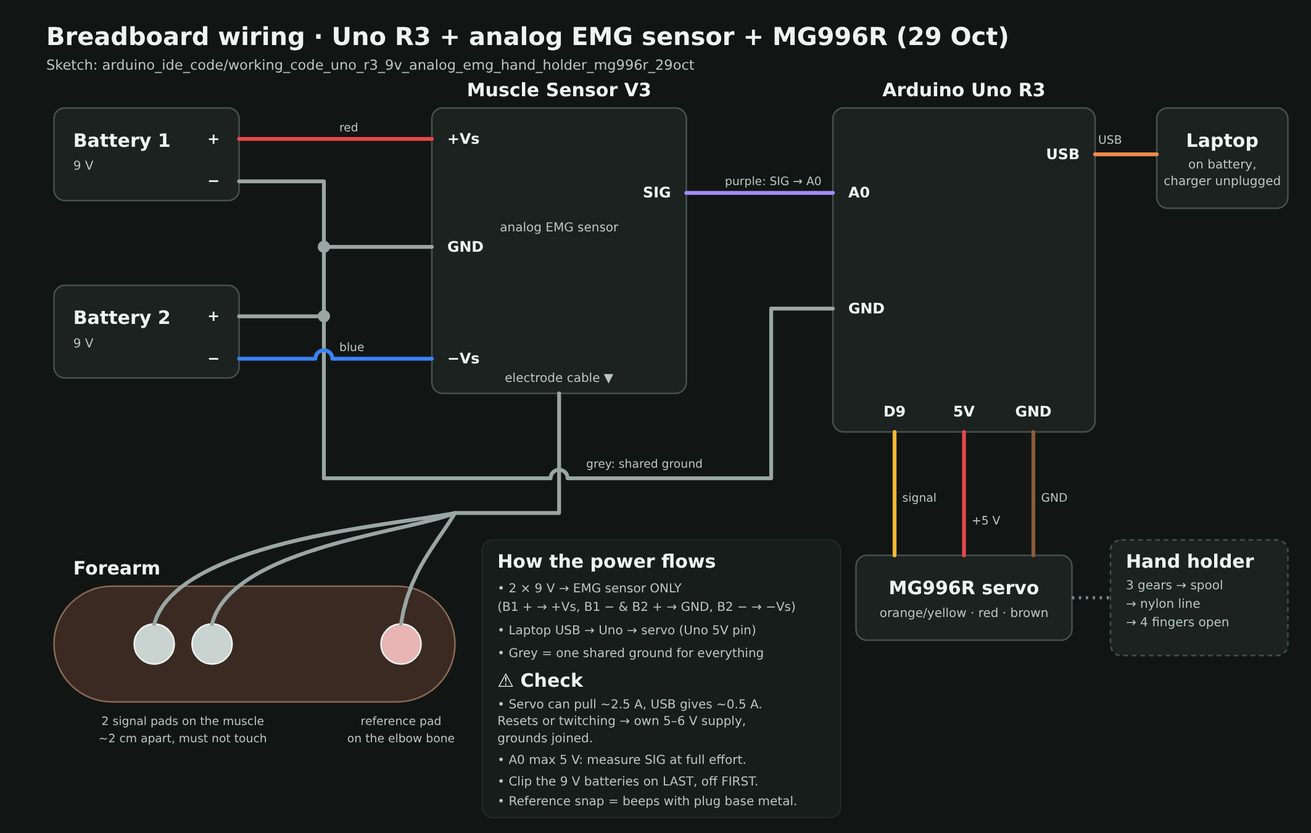
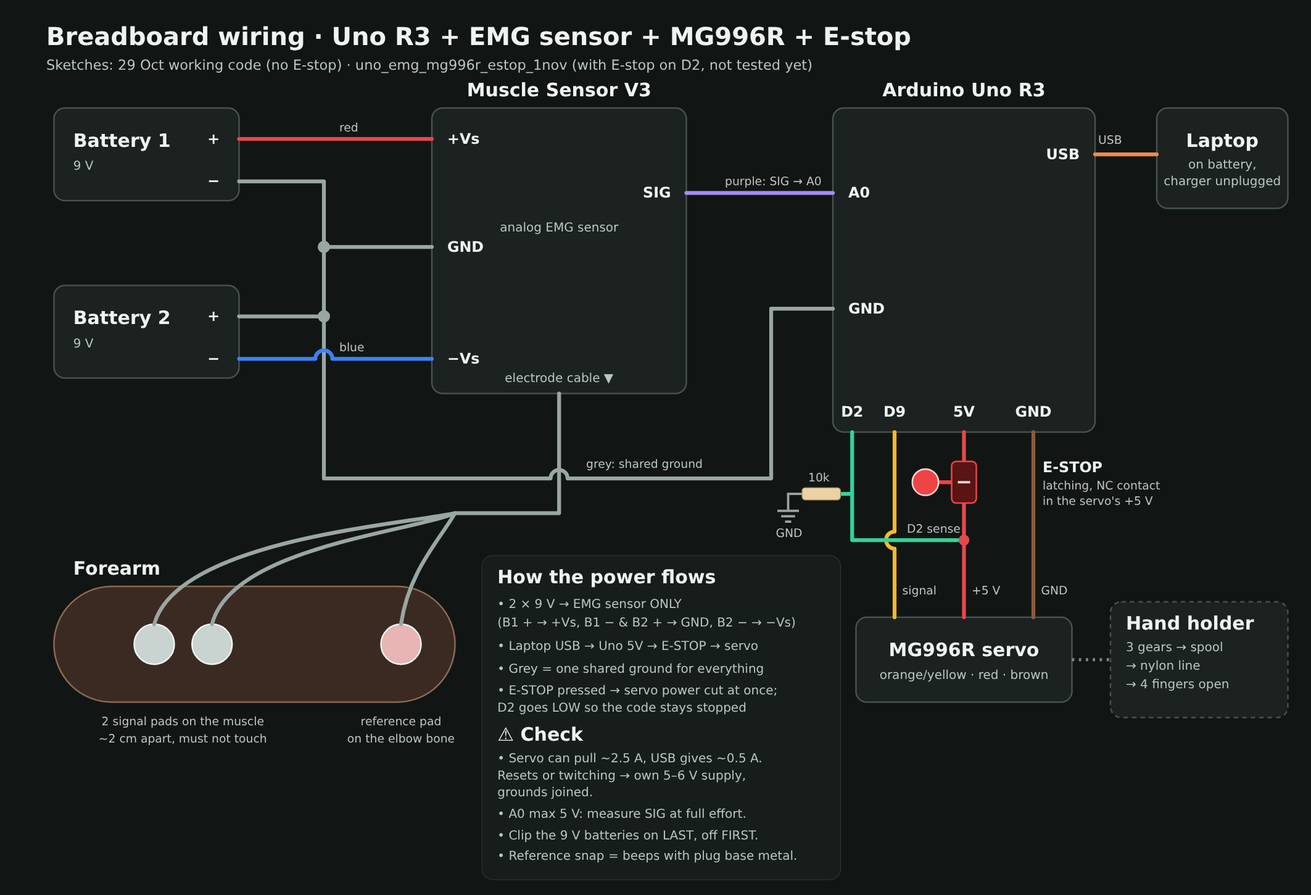
Emergency stop design, README plan, design + wiring updates
- wiring: E-stop (latching NC button in the servo +5 V, D2 sense, 10k to
  GND) added to both pictures; parts list in wiring/README.md
- arduino_ide_code/uno_emg_mg996r_estop_1nov: 29 Oct code + E-stop and a
  SAFETY angle box (syntax-checked only, not tested on hardware)
- design/README: 29 Oct back-of-palm holder parts
- README: planned next (ESP32 wireless link, EMG min/max, build E-stop,
  website as serial plotter); misc/CLAUDE.md and progress log updated

Claude-Session: https://claude.ai/code/session_01DzdJ2GVwHnWSbc4bwTXLm9

diff --git a/wiring/source/breadboard_wiring.html b/wiring/source/breadboard_wiring.html
@@ -2,7 +2,7 @@
 <html><head><meta charset="utf-8"><title>Breadboard Wiring</title>
 <!-- Source of wiring/breadboard_wiring.png. Edit here, then re-make the PNG. -->
 <style>body{margin:0;background:#111614}</style></head><body>
-<svg xmlns="http://www.w3.org/2000/svg" width="1700" height="1080" viewBox="0 0 1700 1080" font-family="DejaVu Sans, Arial, sans-serif">
+<svg xmlns="http://www.w3.org/2000/svg" width="1700" height="1160" viewBox="0 0 1700 1160" font-family="DejaVu Sans, Arial, sans-serif">
   <defs>
     <style>
       .box{fill:#1b2220;stroke:#46524f;stroke-width:2}
@@ -13,9 +13,9 @@
       .lbl{fill:#b9c6c2;font-size:15px}
     </style>
   </defs>
-  <rect width="1700" height="1080" fill="#111614"/>
-  <text x="60" y="58" font-size="32" font-weight="700" fill="#eef4f2">Breadboard wiring · Uno R3 + analog EMG sensor + MG996R (29 Oct)</text>
-  <text x="60" y="90" font-size="18" fill="#b9c6c2">Sketch: arduino_ide_code/working_code_uno_r3_9v_analog_emg_hand_holder_mg996r_29oct</text>
+  <rect width="1700" height="1160" fill="#111614"/>
+  <text x="60" y="58" font-size="32" font-weight="700" fill="#eef4f2">Breadboard wiring · Uno R3 + EMG sensor + MG996R + E-stop</text>
+  <text x="60" y="90" font-size="18" fill="#b9c6c2">Sketches: 29 Oct working code (no E-stop) · uno_emg_mg996r_estop_1nov (with E-stop on D2, not tested yet)</text>
 
   <!-- ===== batteries ===== -->
   <rect x="70" y="140" width="240" height="120" rx="14" class="box" stroke="#f08a4b"/>
@@ -41,6 +41,7 @@
   <text x="1250" y="125" class="t" text-anchor="middle">Arduino Uno R3</text>
   <text x="1100" y="256" class="pin">A0</text>
   <text x="1100" y="406" class="pin">GND</text>
+  <text x="1105" y="540" class="pin" text-anchor="middle">D2</text>
   <text x="1160" y="540" class="pin" text-anchor="middle">D9</text>
   <text x="1250" y="540" class="pin" text-anchor="middle">5V</text>
   <text x="1340" y="540" class="pin" text-anchor="middle">GND</text>
@@ -53,17 +54,17 @@
   <text x="1585" y="240" class="s" text-anchor="middle">charger unplugged</text>
 
   <!-- ===== servo ===== -->
-  <rect x="1110" y="720" width="280" height="110" rx="14" class="box" stroke="#7d8a90"/>
-  <text x="1250" y="770" class="t" text-anchor="middle">MG996R servo</text>
-  <text x="1250" y="800" class="s" text-anchor="middle">orange/yellow · red · brown</text>
+  <rect x="1110" y="800" width="280" height="110" rx="14" class="box" stroke="#7d8a90"/>
+  <text x="1250" y="850" class="t" text-anchor="middle">MG996R servo</text>
+  <text x="1250" y="880" class="s" text-anchor="middle">orange/yellow · red · brown</text>
 
   <!-- ===== hand holder ===== -->
-  <rect x="1440" y="700" width="230" height="150" rx="14" class="box" stroke="#7d8a90" stroke-dasharray="6 5"/>
-  <text x="1460" y="736" class="t" font-size="20">Hand holder</text>
-  <text x="1460" y="764" class="s">3 gears → spool</text>
-  <text x="1460" y="788" class="s">→ nylon line</text>
-  <text x="1460" y="812" class="s">→ 4 fingers open</text>
-  <path d="M1390 775 H1440" stroke="#7d8a90" stroke-width="4" stroke-dasharray="3 6"/>
+  <rect x="1440" y="780" width="230" height="150" rx="14" class="box" stroke="#7d8a90" stroke-dasharray="6 5"/>
+  <text x="1460" y="816" class="t" font-size="20">Hand holder</text>
+  <text x="1460" y="844" class="s">3 gears → spool</text>
+  <text x="1460" y="868" class="s">→ nylon line</text>
+  <text x="1460" y="892" class="s">→ 4 fingers open</text>
+  <path d="M1390 855 H1440" stroke="#7d8a90" stroke-width="4" stroke-dasharray="3 6"/>
 
   <!-- ===== forearm + electrodes ===== -->
   <rect x="70" y="760" width="520" height="150" rx="75" fill="#3a2a22" stroke="#8a6a55" stroke-width="2"/>
@@ -92,9 +93,27 @@
   <!-- SIG to A0 (purple) -->
   <path d="M890 250 H1080" class="w" stroke="#a78bfa"/>
   <!-- servo wires -->
-  <path d="M1160 560 V720" class="w" stroke="#f5b82e"/>
-  <path d="M1250 560 V720" class="w" stroke="#e5484d"/>
-  <path d="M1340 560 V720" class="w" stroke="#8b5a3c"/>
+  <path d="M1160 560 V689 A11 11 0 0 0 1160 711 V800" class="w" stroke="#f5b82e"/>
+  <path d="M1250 560 V598 M1250 652 V800" class="w" stroke="#e5484d"/>
+  <path d="M1340 560 V800" class="w" stroke="#8b5a3c"/>
+  <!-- EMERGENCY STOP: latching button with a normally-closed (NC) contact, in the servo's +5 V wire -->
+  <rect x="1234" y="598" width="32" height="54" rx="6" fill="#5a1414" stroke="#ef4444" stroke-width="2"/>
+  <path d="M1242 625 H1258" stroke="#ffd6d6" stroke-width="3"/>
+  <path d="M1216 625 H1234" stroke="#ef4444" stroke-width="5"/>
+  <circle cx="1200" cy="625" r="17" fill="#ef4444" stroke="#ffd6d6" stroke-width="2"/>
+  <text x="1352" y="612" class="pin" fill="#ff8a8a">E-STOP</text>
+  <text x="1352" y="634" class="lbl">latching, NC contact</text>
+  <text x="1352" y="654" class="lbl">in the servo's +5 V</text>
+  <!-- D2 senses whether the servo has power: HIGH = running, LOW = E-stop pressed -->
+  <path d="M1250 700 H1105 V560" class="w" stroke="#34d399"/>
+  <circle cx="1250" cy="700" r="7" fill="#e5484d"/>
+  <text x="1176" y="690" class="lbl" fill="#8ff0c4">D2 sense</text>
+  <!-- 10k pull-down from D2 to ground -->
+  <path d="M1105 640 H1090" class="w" stroke="#34d399"/>
+  <rect x="1040" y="632" width="50" height="16" rx="4" fill="#e9d3a6" stroke="#9c7a3c"/>
+  <text x="1048" y="624" class="lbl" fill="#e9d3a6">10k</text>
+  <path d="M1040 640 H1022 V662 M1008 662 H1036 M1013 669 H1031 M1018 676 H1026" stroke="#9aa6a3" stroke-width="3" fill="none"/>
+  <text x="1006" y="696" class="lbl">GND</text>
   <!-- USB (orange power + data) -->
   <path d="M1420 200 H1500" class="w" stroke="#f08a4b" stroke-width="7"/>
 
@@ -103,24 +122,26 @@
   <text x="440" y="455" class="lbl">blue</text>
   <text x="940" y="240" class="lbl">purple: SIG → A0</text>
   <text x="760" y="606" class="lbl">grey: shared ground</text>
-  <text x="1170" y="650" class="lbl">signal</text>
-  <text x="1260" y="680" class="lbl">+5 V</text>
-  <text x="1350" y="650" class="lbl">GND</text>
+  <text x="1170" y="770" class="lbl">signal</text>
+  <text x="1260" y="770" class="lbl">+5 V</text>
+  <text x="1350" y="770" class="lbl">GND</text>
   <text x="1424" y="186" class="lbl">USB</text>
 
   <!-- ===== notes ===== -->
-  <rect x="625" y="700" width="465" height="360" rx="14" fill="#171d1b" stroke="#2c3734"/>
-  <text x="645" y="736" class="t" font-size="20">How the power flows</text>
-  <text x="645" y="768" class="s" fill="#f2b38d">• 2 × 9 V → EMG sensor ONLY</text>
-  <text x="645" y="792" class="s">   (B1 + → +Vs, B1 − &amp; B2 + → GND, B2 − → −Vs)</text>
-  <text x="645" y="822" class="s" fill="#f2b38d">• Laptop USB → Uno → servo (Uno 5V pin)</text>
-  <text x="645" y="852" class="s">• Grey = one shared ground for everything</text>
-  <text x="645" y="890" class="t" font-size="18" fill="#ff8a8a">⚠ Check</text>
-  <text x="645" y="918" class="s" fill="#f1d0d0">• Servo can pull ~2.5 A, USB gives ~0.5 A.</text>
-  <text x="645" y="940" class="s" fill="#f1d0d0">  Resets or twitching → own 5–6 V supply,</text>
-  <text x="645" y="962" class="s" fill="#f1d0d0">  grounds joined.</text>
-  <text x="645" y="990" class="s" fill="#f1d0d0">• A0 max 5 V: measure SIG at full effort.</text>
-  <text x="645" y="1018" class="s" fill="#f1d0d0">• Clip the 9 V batteries on LAST, off FIRST.</text>
-  <text x="645" y="1044" class="s" fill="#f1d0d0">• Reference snap = beeps with plug base metal.</text>
+  <rect x="625" y="720" width="465" height="420" rx="14" fill="#171d1b" stroke="#2c3734"/>
+  <text x="645" y="756" class="t" font-size="20">How the power flows</text>
+  <text x="645" y="788" class="s" fill="#f2b38d">• 2 × 9 V → EMG sensor ONLY</text>
+  <text x="645" y="812" class="s">   (B1 + → +Vs, B1 − &amp; B2 + → GND, B2 − → −Vs)</text>
+  <text x="645" y="842" class="s" fill="#f2b38d">• Laptop USB → Uno 5V → E-STOP → servo</text>
+  <text x="645" y="872" class="s">• Grey = one shared ground for everything</text>
+  <text x="645" y="900" class="s" fill="#ff8a8a">• E-STOP pressed → servo power cut at once;</text>
+  <text x="645" y="922" class="s" fill="#ff8a8a">  D2 goes LOW so the code stays stopped</text>
+  <text x="645" y="960" class="t" font-size="18" fill="#ff8a8a">⚠ Check</text>
+  <text x="645" y="988" class="s" fill="#f1d0d0">• Servo can pull ~2.5 A, USB gives ~0.5 A.</text>
+  <text x="645" y="1010" class="s" fill="#f1d0d0">  Resets or twitching → own 5–6 V supply,</text>
+  <text x="645" y="1032" class="s" fill="#f1d0d0">  grounds joined.</text>
+  <text x="645" y="1060" class="s" fill="#f1d0d0">• A0 max 5 V: measure SIG at full effort.</text>
+  <text x="645" y="1088" class="s" fill="#f1d0d0">• Clip the 9 V batteries on LAST, off FIRST.</text>
+  <text x="645" y="1114" class="s" fill="#f1d0d0">• Reference snap = beeps with plug base metal.</text>
 </svg>
 </body></html>

diff --git a/wiring/source/system_overview.html b/wiring/source/system_overview.html
@@ -33,7 +33,7 @@
   <rect x="820" y="830" width="740" height="430" rx="20" class="panel"/>
 
   <!-- title -->
-  <text x="60" y="58" font-size="32" font-weight="700" fill="#eef4f2">How the hand exoskeleton works (29 Oct setup)</text>
+  <text x="60" y="58" font-size="32" font-weight="700" fill="#eef4f2">How the hand exoskeleton works (29 Oct setup + emergency stop)</text>
   <text x="60" y="90" font-size="18" fill="#b9c6c2">Forearm muscle → EMG sensor → Arduino Uno → MG996R → gears + spool → fishing line → 4 fingers open</text>
 
   <!-- ================= 1 · SENSE ================= -->
@@ -86,10 +86,10 @@
   <rect x="110" y="526" width="600" height="98" rx="14" class="logic"/>
   <text x="130" y="562" class="t">Threshold logic (toggle)</text>
   <text x="130" y="588" class="s">hit ≥ 400 → open (or close, if open ≥ 1 s)</text>
-  <text x="130" y="610" class="s">relax below 250 before the next hit counts</text>
+  <text x="130" y="610" class="s">relax below 250 before the next hit counts · E-stop (D2) = stop</text>
 
   <path d="M410 640 V684" class="sig" marker-end="url(#aG)"/>
-  <text x="422" y="668" class="lbl">D9 · servo signal</text>
+  <text x="422" y="668" class="lbl">D9 signal</text>
 
   <!-- move chain -->
   <rect x="70" y="690" width="420" height="88" rx="14" class="mech"/>
@@ -124,16 +124,24 @@
   <text x="538" y="1138" class="s">   resting tone)</text>
   <path d="M520 1110 H498" class="sig" marker-end="url(#aG)"/>
 
-  <!-- laptop power into Uno + servo -->
-  <rect x="520" y="690" width="230" height="200" rx="14" class="power"/>
-  <text x="538" y="724" class="t">Laptop USB</text>
-  <text x="538" y="750" class="s">5 V, on battery</text>
-  <text x="538" y="772" class="s">(charger unplugged)</text>
-  <text x="538" y="806" class="s">powers the Uno,</text>
-  <text x="538" y="828" class="s">and the servo via</text>
-  <text x="538" y="850" class="s">the Uno’s 5V pin</text>
-  <path d="M635 690 V648" class="pw" marker-end="url(#aO)"/>
-  <path d="M520 734 H498" class="pw" marker-end="url(#aO)"/>
+  <!-- emergency stop: in the servo's power wire, and read by the Uno on D2 -->
+  <rect x="520" y="682" width="200" height="112" rx="14" fill="#5a1414" stroke="#ef4444" stroke-width="3"/>
+  <circle cx="548" cy="712" r="13" fill="#ef4444"/>
+  <text x="570" y="719" class="t" font-size="19" fill="#ffd6d6">E-STOP</text>
+  <text x="536" y="746" class="s" fill="#f6caca">red latching button</text>
+  <text x="536" y="768" class="s" fill="#f6caca">cuts servo power</text>
+  <text x="536" y="788" class="s" fill="#f6caca" font-size="14">+ tells the Uno (D2)</text>
+  <path d="M520 738 H498" class="pw" marker-end="url(#aO)"/>
+  <path d="M560 682 V648" class="sig" marker-end="url(#aG)"/>
+  <text x="576" y="672" class="lbl">D2</text>
+
+  <!-- laptop power into the Uno, and through the E-stop to the servo -->
+  <rect x="520" y="824" width="230" height="92" rx="14" class="power"/>
+  <text x="538" y="854" class="t" font-size="19">Laptop USB 5 V</text>
+  <text x="538" y="880" class="s">on battery, charger off</text>
+  <text x="538" y="902" class="s" font-size="14">→ Uno → E-stop → servo</text>
+  <path d="M620 824 V800" class="pw" marker-end="url(#aO)"/>
+  <path d="M740 824 V648" class="pw" marker-end="url(#aO)"/>
 
   </g>
 
@@ -168,7 +176,7 @@
   <rect x="1200" y="842" width="330" height="120" rx="14" class="power"/>
   <text x="1218" y="876" class="t" font-size="19">B · Laptop USB 5 V</text>
   <text x="1218" y="904" class="s">→ Arduino Uno</text>
-  <text x="1218" y="928" class="s">→ MG996R (via Uno 5V pin)</text>
+  <text x="1218" y="928" class="s">→ E-stop → MG996R</text>
 
   <text x="850" y="1000" class="s" fill="#d6dfdc">Grounds are joined (EMG GND ↔ Uno GND) so the Uno can read SIG.</text>
 

diff --git a/README.md b/README.md
@@ -9,40 +9,42 @@ When the patient **tries** to open the hand, a sensor on the forearm picks up th
 1. The patient tenses the **forearm muscles** (flexor / extensor).
 2. **Electrodes** on the skin pass the signal to an **analog EMG sensor**, powered by **two 9 V batteries**.
 3. An **Arduino Uno R3** reads the signal, smooths it, and checks it against a threshold.
-4. On a "hit", the Uno turns the **MG996R servo**, which is screwed into the **hand holder**.
-5. Through a **3-gear train** (small → middle → big gear), the big gear's **spool** winds in a **nylon fishing line**.
+4. On a "hit", the Uno turns the **MG996R servo**, which is screwed into the **back-of-palm holder**.
+5. Through a **3-gear train** (servo gear → idler gear → big gear), the big gear's **spool** winds in a **nylon fishing line**.
 6. The line goes taut and pulls the **index, middle, ring and little finger** straight, all at once. No thumb for now.
 7. On the next hit the servo returns, the spool unwinds, the line goes slack, and the fingers curl back into a fist by themselves.
+8. **Emergency stop** (designed 1 Nov, not built yet): a red button cuts the servo's power at once, so the patient can take the device off safely.
 
 ![system overview](wiring/system_overview.png)
 
-**Power:** the 2 × 9 V batteries power **only** the EMG sensor. The **laptop** (USB) powers the Uno, and the Uno powers the servo.
+**Power:** the 2 × 9 V batteries power **only** the EMG sensor. The **laptop** (USB) powers the Uno, and the Uno powers the servo through the E-stop.
 
 ## Folders
 | Folder | What is in it |
 |---|---|
-| [`wiring/`](wiring/) | system overview + breadboard wiring pictures (and their editable source) |
-| [`arduino_ide_code/`](arduino_ide_code/) | the Arduino sketches. **Working code: 29 Oct, Uno + EMG + MG996R** |
+| [`wiring/`](wiring/) | system overview + breadboard wiring pictures, parts list, emergency stop |
+| [`arduino_ide_code/`](arduino_ide_code/) | Arduino sketches: **29 Oct working code**, and the 1 Nov version with the E-stop |
 | [`biomechanics_calculation/`](biomechanics_calculation/) | the finger force / spool / torque calculation (PDF) |
-| [`design/`](design/) | the prototype photo, `3d_printed/` STL files, interactive design pages |
-| [`website/`](website/) | the live 3D hand tracker website (demo mode for now) |
-| [`firmware/`](firmware/) | earlier ESP32 / Nano / XIAO sketches (flex sensor, EMG tests, motor tests) |
-| [`hardware/`](hardware/) | earlier printed parts, grouped by date |
-| [`docs/`](docs/) | [`SAFETY.md`](docs/SAFETY.md) (read before testing on anyone), previews, and `old/` |
-| [`misc/`](misc/) | the work log ([`PROGRESS_FARID.md`](misc/PROGRESS_FARID.md)) |
-| `CLAUDE.md` | instructions that Claude Code reads automatically. It has to stay in this top folder. |
+| [`design/`](design/) | prototype photo, **29 Oct back-of-palm holder (.3mf print file)**, `3d_printed/` finger casings |
+| [`website/`](website/) | live 3D hand + **Serial plotter** (watch the EMG live in Chrome, like the Arduino IDE) |
+| [`misc/`](misc/) | work log, safety checklist (`misc/docs/SAFETY.md`), earlier firmware / hardware / docs, the full `CLAUDE.md` |
 
 ## ⚠ Before testing on a person
-- Read [`docs/SAFETY.md`](docs/SAFETY.md).
+- Read [`misc/docs/SAFETY.md`](misc/docs/SAFETY.md).
 - Laptop **charger unplugged** during EMG tests.
-- First run the servo **without a hand** in the holder, and have someone ready to pull the USB cable.
-- The servo currently runs on USB power through the Uno. If the Uno resets or the servo twitches, give the servo its own 5–6 V supply (grounds joined). Details in [`arduino_ide_code/README.md`](arduino_ide_code/README.md).
+- First run the servo **without a hand** in the holder, and have someone ready to pull the USB cable (until the E-stop is built).
+- The servo currently runs on USB power through the Uno. If the Uno resets or the servo twitches, give it its own 5–6 V supply (grounds joined). Details in [`arduino_ide_code/README.md`](arduino_ide_code/README.md).
 
-## Planned next
-- **ESP32-S3** reading the EMG signal and sending it by **Bluetooth** to the [website](website/), for live EMG and recording.
-- A sensor that tells the motor when the finger is straight, so it stops by itself.
+## Planned next (to discuss with the team)
+1. **ESP32-S3 as the wireless link.** Use it only for its **Bluetooth / Wi-Fi**, to send the live data (EMG, motor state) to our [website](website/), which shows the hand moving. How exactly is still to be worked out:
+   - **Bluetooth** is the easiest: the website can already connect to an ESP32 called "ExoHand" in Chrome.
+   - **Wi-Fi** is harder: a website on `https://` (GitHub Pages) can't talk to a plain `http://` ESP32 on the local network. Options: the ESP32 serves its own page, or a secure connection.
+2. **EMG min / max thresholds.** Today the motor toggles on any contraction spike (above 400, relax below 250). We want a proper **minimum and maximum** per person (calibrate at rest and at full effort), to decide when the spool **tightens** (open) and when it **releases** (close).
+3. **Emergency stop: build it** (with the mechanics team). A switch or button that **stops everything** without breaking anything, so the patient can take the device off. Wiring, parts and code are ready in [`wiring/`](wiring/) and [`arduino_ide_code/uno_emg_mg996r_estop_1nov`](arduino_ide_code/uno_emg_mg996r_estop_1nov/). Mechanics: where it sits so the patient can reach it with the other hand.
+4. **Website as the Arduino IDE.** ✅ Started: the website's **Serial plotter + monitor** shows the Uno's EMG live over USB (set USB speed to 9600). Next: the same over **Bluetooth / Wi-Fi** through the ESP32.
+5. **Wireless instead of the USB cable**: needs (1). The servo will then also need its own power supply.
 
 ## Team: how to edit
 - Small change: open the file on GitHub → pencil icon → edit → **Commit changes**.
-- Bigger change: open the repo in Claude Code and describe what you want. It reads `CLAUDE.md` first.
-- After a work session, add a dated entry to `misc/PROGRESS_FARID.md`.
+- Bigger change: open the repo in Claude Code and describe what you want. It reads `CLAUDE.md` (which loads `misc/CLAUDE.md`) first.
+- After a work session, add a dated entry to [`misc/PROGRESS_FARID.md`](misc/PROGRESS_FARID.md).

diff --git a/wiring/README.md b/wiring/README.md
@@ -1,16 +1,37 @@
 # Wiring
 
-Current setup (29 Oct): **Arduino Uno R3 + analog EMG sensor (2 × 9 V) + MG996R + hand holder.**
+Current setup (29 Oct): **Arduino Uno R3 + analog EMG sensor (2 × 9 V) + MG996R + hand holder**, plus the planned **emergency stop** (1 Nov).
 The ESP32-S3 and the website are planned and drawn dashed; they're not wired yet.
 
 | Picture | What it shows |
 |---|---|
 | [system_overview.png](system_overview.png) | the whole system, step by step: muscle → electrodes → EMG sensor → Uno → servo → gears + spool → line → 4 fingers, plus the two power sources |
-| [breadboard_wiring.png](breadboard_wiring.png) | every wire: batteries → EMG sensor, SIG → A0, shared ground, D9 / 5V / GND → servo, laptop USB |
+| [breadboard_wiring.png](breadboard_wiring.png) | every wire: batteries → EMG sensor, SIG → A0, shared ground, D9 / 5V / GND → servo, the E-stop in the servo's +5 V with D2 sense, laptop USB |
 
 ![system overview](system_overview.png)
 
 ![breadboard wiring](breadboard_wiring.png)
+
+## Emergency stop (added 1 Nov, not built yet)
+A big red **latching** button (push to stop, twist to release), wired **into the servo's red +5 V wire**:
+1. **Press it** → the servo loses power **at once**. This is pure wiring, so it works even if the code is stuck. The motor stops pulling, the line goes slack, and the patient can take the holder off.
+2. **D2 tells the Uno.** D2 is wired to the servo side of the button, with a **10k resistor to GND**. Normal = HIGH, pressed = LOW. The E-stop sketch then stays stopped, so the servo can't jump when the button is released.
+3. **To restart:** twist the button to release it, then press the Uno's **RESET** button.
+
+Code: [`arduino_ide_code/uno_emg_mg996r_estop_1nov`](../arduino_ide_code/uno_emg_mg996r_estop_1nov/). It's the 29 Oct code plus the E-stop, **not tested on hardware yet**.
+
+## Parts list
+| Part | Qty | Notes |
+|---|---|---|
+| Arduino Uno R3 + USB cable | 1 | powered by the laptop (charger unplugged) |
+| Analog EMG sensor (Muscle Sensor V3) + electrode cable | 1 | |
+| Electrode pads | 3 | 2 on the muscle (~2 cm apart), 1 on the elbow bone |
+| 9 V battery + snap clip | 2 | power the EMG sensor only |
+| MG996R servo | 1 | in the hand holder |
+| **Emergency stop button** | 1 | latching mushroom head (twist to release), **1 × NC contact**, rated ≥ 3 A. 22 mm panel type fits a small box |
+| **10 kΩ resistor** | 1 | D2 → GND (tells the Uno the button was pressed) |
+| Breadboard + jumper wires | – | red = +, grey/black = GND, purple = SIG, yellow/orange = servo signal, green = D2 sense |
+| *Recommended:* separate 5–6 V supply for the servo | 1 | if the Uno resets or the servo twitches. The E-stop then goes in that supply's + wire, with grounds joined |
 
 ## Power, in one sentence each
 - The **two 9 V batteries** power the EMG sensor and nothing else.

diff --git a/misc/PROGRESS_FARID.md b/misc/PROGRESS_FARID.md
@@ -30,6 +30,14 @@ Newest entry at the top. Teammates: read the **Current status** and **To-do** fi
 
 ---
 
+## 1 Nov 2026 (part 2): E-stop design, website serial plotter, misc/ folder
+- Moved `firmware/`, `hardware/`, `docs/` and `CLAUDE.md` into `misc/` (a tiny top-level `CLAUDE.md` loads `misc/CLAUDE.md`).
+- Added `design/29oct_back_of_palm_device_holder.3mf` (Base hand 2, Servo Holder, Servo Gear, Idler Gear, spool, Spool Clip) + plate picture.
+- **Emergency stop designed:** latching NC button in the servo +5 V wire, D2 sense with 10k to GND. Wiring + parts list in `wiring/`, both pictures updated. New sketch `arduino_ide_code/uno_emg_mg996r_estop_1nov` (syntax-checked only, not tested on hardware).
+- **Website: Serial plotter + monitor** (like the Arduino IDE) and a USB speed setting, so the Uno's EMG (9600 baud) shows live in Chrome.
+- Tests: protocol 9/9, browser 50/50, no broken links.
+- README "Planned next": ESP32 as wireless link (BLE easy, Wi-Fi needs a plan), EMG min/max thresholds, build the E-stop, wireless plotter.
+
 ## 1 Nov 2026: 29 Oct setup documented, new folders (branch `1st-november`)
 - **Working setup (29 Oct):** analog EMG sensor (2 × 9 V) → Arduino Uno R3 (A0) → D9 → MG996R in the hand holder → 3-gear train + spool → nylon line → 4 finger casings (no thumb). Laptop USB powers the Uno and the servo.
 - New folders: `wiring/` (system overview + breadboard wiring PNGs), `arduino_ide_code/` (29 Oct working code, unchanged), `biomechanics_calculation/` (PDF), `design/` (prototype photo, `3d_printed/` index + middle hinged full-ring v3 STLs, design pages), `website/` (site + screenshots + build prompt).

diff --git a/arduino_ide_code/README.md b/arduino_ide_code/README.md
@@ -3,6 +3,7 @@
 | Sketch | Date | What it is |
 |---|---|---|
 | [`working_code_uno_r3_9v_analog_emg_hand_holder_mg996r_29oct`](working_code_uno_r3_9v_analog_emg_hand_holder_mg996r_29oct/) | 29 Oct 2026 | **Working code.** Arduino Uno R3 + 2 × 9 V + analog EMG sensor + hand holder + MG996R |
+| [`uno_emg_mg996r_estop_1nov`](uno_emg_mg996r_estop_1nov/) | 1 Nov 2026 | the 29 Oct code **+ emergency stop** on D2. **Not tested on hardware yet.** It needs the E-stop wiring: without the 10k resistor on D2, the pin floats and the sketch may stop by itself. |
 
 *(Folder and file names use underscores, not spaces or `+`, because the Arduino IDE refuses sketch names with those. The folder and the `.ino` file must have the same name.)*
 
@@ -19,6 +20,10 @@ Wiring for this sketch: [`../wiring/breadboard_wiring.png`](../wiring/breadboard
 4. After a hit, the muscle must **relax below 250** before the next hit counts. So holding the muscle tight doesn't make the hand flap open and shut.
 5. 0.5 s after each move, the servo signal is switched off (`detach`), so the servo stops buzzing and jittering.
 6. Sends the smoothed value to the **Serial Plotter** (Tools → Serial Plotter, **9600 baud**). Use it to see your 400 / 250 lines.
+
+### Watch it live in the browser
+Instead of the Arduino IDE's Serial Plotter, you can use the website's **Serial plotter**: set **USB speed** to **9600**, then click **Connect by USB**. See [`../website/README.md`](../website/README.md).
+(The website's STOP button can't stop this sketch, because it doesn't listen for commands. Use the hardware E-stop.)
 
 ### How to upload
 1. Open the `.ino` file in the Arduino IDE.

diff --git a/misc/CLAUDE.md b/misc/CLAUDE.md
@@ -8,7 +8,9 @@ One motor pulls a nylon fishing line that runs along the back of the fingers and
   - The Uno is powered by the laptop USB, and the servo by the Uno's 5V pin.
   - Spool winds (clockwise) → line taut → fingers straighten. Spool unwinds → slack → the fingers return to a fist by themselves (resting tone).
 - **Not in use yet:** flex sensors, ESP32-S3, balance bar/whiffletree, coil sheaths, table-top unit. Older firmware/hardware for these stays in `misc/firmware/` and `misc/hardware/`.
-- **Planned:** ESP32-S3 reads the EMG (through the 1/3 divider) and sends it by Bluetooth to the website.
+- **Emergency stop (designed 1 Nov, not built):** latching NC button in the servo's +5 V wire (hardware power cut) + D2 sense with 10k to GND. Sketch `arduino_ide_code/uno_emg_mg996r_estop_1nov` (untested). The 29 Oct code ignores serial input, so the website STOP can't stop it.
+- **Website serial plotter:** the website plots any numeric serial lines (Arduino-plotter style) at a chosen baud (9600 for the Uno code).
+- **Planned (to discuss):** ESP32-S3 used only as the Bluetooth / Wi-Fi link to the website; per-person EMG min/max thresholds instead of the fixed 400/250 toggle.
 - Code: `arduino_ide_code/working_code_uno_r3_9v_analog_emg_hand_holder_mg996r_29oct/`. Wiring: `wiring/`.
 - Milestones: POC1 Thu 22 Oct 2026, POC2 29 Oct, CA2 demo 5 Nov 2026 (graded on need-statement fit, casing/materials, electronics, AI-powered app).
 - Later phases add a display on the table unit, plus machine learning that compares the flexor and extensor EMG to decide open or close.

diff --git a/design/README.md b/design/README.md
@@ -5,10 +5,24 @@
 
 - **Finger casings** on the index, middle, ring and little finger. No thumb for now.
 - **Hand holder** on the back of the hand and forearm. The **MG996R** servo is screwed in at its base.
-- **3-gear train:** the servo turns the small gear → the middle gear → the big gear. The big gear carries the **spool**.
+- **3-gear train:** the servo turns the **servo gear** → the **idler gear** (middle) → the **big gear**. The big gear carries the **spool**.
 - **Spool** winds and unwinds the **nylon fishing line**, which runs to all 4 finger casings, so one motor pulls all 4 fingers at once.
 - Servo turns → spool **winds** (clockwise) → line goes **taut** → fingers **straighten**.
 - Servo returns → spool **unwinds** → line goes **slack** → the fingers curl back into a **fist** by themselves (the stroke patient's resting tone).
+
+## 29 Oct back-of-palm device holder (print file)
+[`29oct_back_of_palm_device_holder.3mf`](29oct_back_of_palm_device_holder.3mf): one print plate with all the holder parts. Open it in **Bambu Studio** (or another slicer that reads .3mf).
+
+![holder print plate](29oct_back_of_palm_device_holder_plate.png)
+
+| Part (name in the file) | What it does |
+|---|---|
+| Base hand 2 | the plate on the back of the palm, with strap slots |
+| Servo Holder | the bracket the MG996R is screwed into |
+| Servo Gear | the small gear on the servo |
+| Idler Gear | the middle gear |
+| spool .2 | the big gear with the spool that winds the fishing line |
+| Spool Clip | holds the spool in place |
 
 ## Folders and files
 | | |
